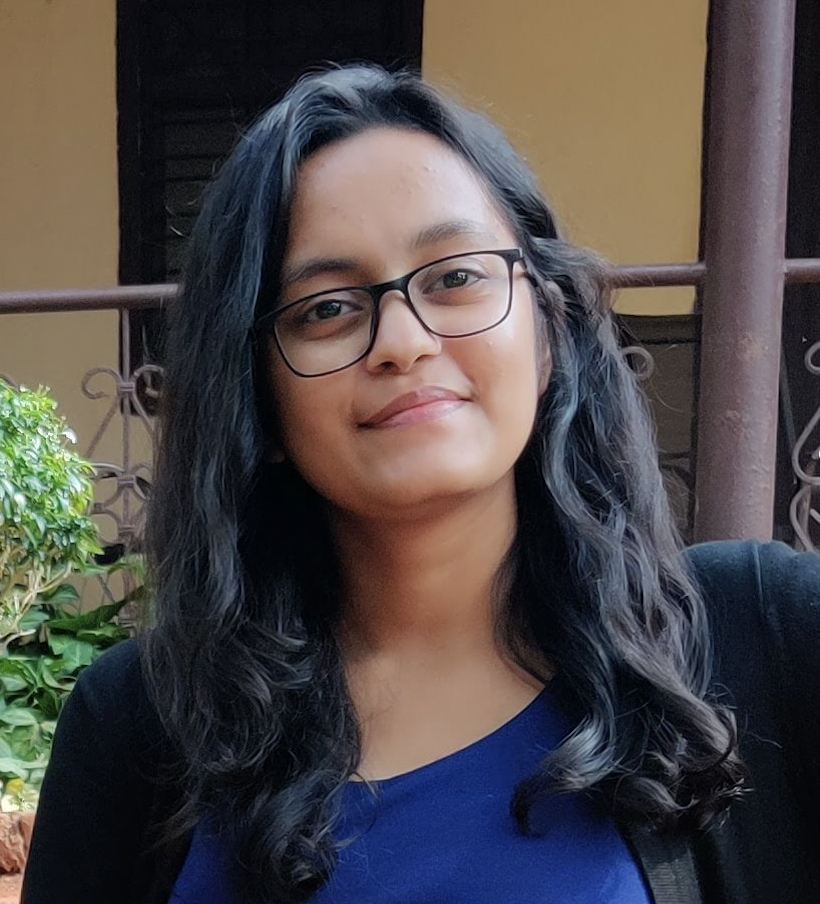
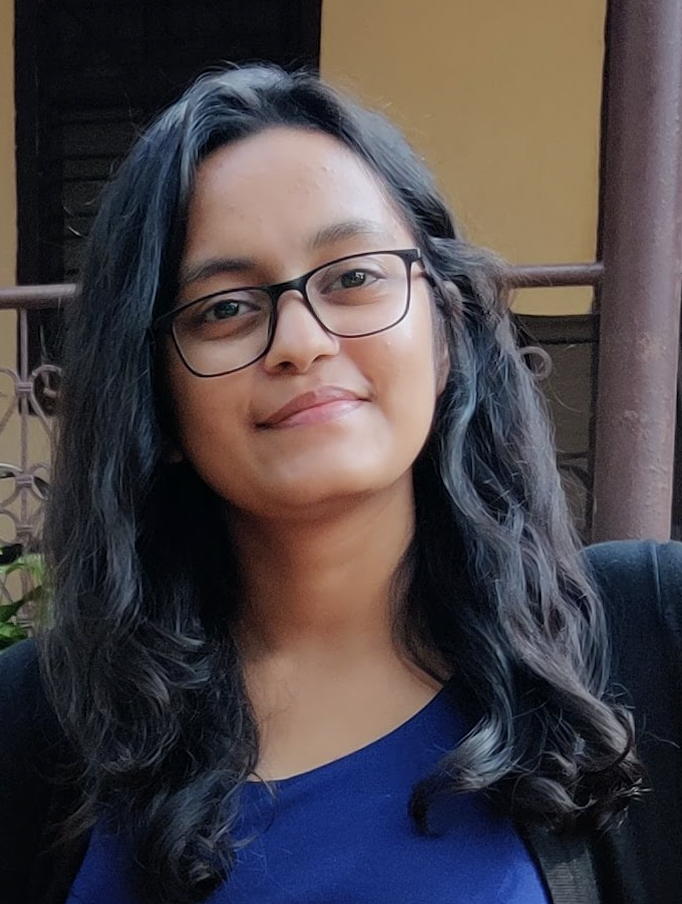
add new research and update students

diff --git a/index.html b/index.html
@@ -127,6 +127,65 @@
 <tr>
 <td valign="top" style="width: 100%; text-align: left;">
 <p>
+<a class="paper" href="https://nchen9191.github.io/tensegrity_mppi/">Model Predictive Control of Tensegrity Robots via Contact-Aware Graph Neural Dynamics Model</a>
+<br>
+Nelson Chen, Patrick Meng, Charles Tang, Angelina Degay, Zachary Brei, Rebecca Kramer-Bottiglio, Kostas Bekris and <font color="brown"><b>Mridul Aanjaneya</b></font> 
+<br>
+<i>IEEE/RSJ International Conference on Intelligent Robots and Systems,</i> (IROS proceedings), (2026)
+</p>
+</td>
+<td align="right" valign="top">
+<img src="images/thumbs/mppi_tensegrity.gif">
+</td>
+</tr>
+<tr>
+<td valign="top" style="width: 100%; text-align: left;">
+<p>
+<a class="paper"
+href="https://sites.google.com/view/tensegrity-navigation/home?authuser=0">An Open-Source, Reproducible Tensegrity Robot That Can Navigate Among Obstacles</a>
+<br>
+William R. Johnson III*, Patrick Meng*, Nelson Chen, Luca Cimatti, Augustin Vercoutere, <font color="brown"><b>Mridul Aanjaneya</b></font>, Rebecca Kramer-Bottiglio and Kostas Bekris (*Co-first authors)
+<br>
+<i>IEEE Robotics and Automation Letters,</i> 11, 6, 7054-7061, (2026)
+</p>
+</td>
+<td align="right" valign="top">
+<img src="images/thumbs/tensegrity_ral.png">
+</td>
+</tr>
+<tr>
+<td valign="top" style="width: 100%; text-align: left;">
+<p>
+<a class="paper"
+href="https://nchen9191.github.io/cablerobotgraphsim/">CableRobotGraphSim: A Graph Neural Network for Modeling Partially Observable Cable-Driven Robot Dynamics</a>
+<br>
+Nelson Chen, William R. Johnson III, Rebecca Kramer-Bottiglio, Kostas Bekris and <font color="brown"><b>Mridul Aanjaneya</b></font>
+<br>
+<i>Proceedings of Machine Learning Research,</i> (L4DC proceedings), (2026)
+</p>
+</td>
+<td align="right" valign="top">
+<img src="images/thumbs/crgs.png">
+</td>
+</tr>
+<tr>
+<td valign="top" style="width: 100%; text-align: left;">
+<p>
+<a class="paper"
+href="https://dl.acm.org/doi/full/10.1145/3807895.3807927">Weber: An Efficient and Interactive Framework for Crafting and Simulating Physics in the Web Browser</a>
+<br>
+Chengguizi Han, Alon Flor, Timothy Meehan and <font color="brown"><b>Mridul Aanjaneya</b></font>
+<br>
+<i>Companion Proceedings of the Symposium on Interactive 3D Graphics and Games,</i> (I3D Companion), (2026)
+</p>
+</td>
+<td align="right" valign="top">
+<img src="images/thumbs/weber.png">
+</td>
+</tr>
+<tr>
+<td valign="top" style="width: 100%; text-align: left;">
+<p>
 <a class="paper" href="papers/LDTDGNN/paper.html">Learning Differentiable Tensegrity Dynamics using Graph Neural Networks</a>
 <br>
 Nelson Chen, Kun Wang, William R. Johnson III, Rebecca Kramer-Bottiglio, Kostas Bekris and <font color="brown"><b>Mridul Aanjaneya</b></font>

diff --git a/research.html b/research.html
@@ -110,34 +110,6 @@ Computer Science
 </p>
 </td>
 <td align="left" valign="top">
-<img src="images/laurel.jpg" height="150">
-</td>
-<td valign="top">
-<p>
-<a class="paper">Chengguizi Han</a>
-<br>
-<br>
-<br>
-<b>PhD Student</b>
-<br>
-Computer Science
-</p>
-</td>
-<td align="left" valign="top">
-<img src="images/alon.JPG" height="150">
-</td>
-<td valign="top">
-<p>
-<a class="paper">Alon Flor</a>
-<br>
-<br>
-<br>
-<b>PhD Student</b>
-<br>
-Computer Science
-</p>
-</td>
-<td align="left" valign="top">
 <img src="images/nelson.jpg" height="150">
 </td>
 <td valign="top">
@@ -149,6 +121,20 @@ Computer Science
 <b>PhD Student</b>
 <br>
 (co-advised with <a href="https://www.cs.rutgers.edu/people/professors/details/kostas-bekris">Prof. Kostas Bekris</a>)
+<br>
+Computer Science
+</p>
+</td>
+<td align="left" valign="top">
+<img src="images/chen.jpg" height="150">
+</td>
+<td valign="top">
+<p>
+<a class="paper">Chen Tang</a>
+<br>
+<br>
+<br>
+<b>PhD Student</b>
 <br>
 Computer Science
 </p>
@@ -187,7 +173,7 @@ Now faculty at Nanjing University of Science and Technology
 <br>
 <br>
 <br>
-<b>PhD Student</b>
+<b>PhD 2022</b>
 <br>
 (co-advised with <a href="https://www.cs.rutgers.edu/people/professors/details/kostas-bekris">Prof. Kostas Bekris</a>)
 <br>
@@ -203,9 +189,25 @@ Now at Amazon Robotics
 <br>
 <br>
 <br>
-<b>MS Student</b>
+<b>MS 2023</b>
+<br>
+Computer Science
 <br>
 Now at Apple
+</p>
+</td>
+<td align="left" valign="top">
+<img src="images/alon.JPG" height="150">
+</td>
+<td valign="top">
+<p>
+<a class="paper">Dr. Alon Flor</a>
+<br>
+<br>
+<br>
+<b>PhD 2026</b>
+<br>
+Computer Science
 </p>
 </td>
 </tr>
@@ -219,7 +221,7 @@ Now at Apple
 <br>
 <br>
 <br>
-<b>PhD Student</b>
+<b>PhD 2023</b>
 <br>
 Now at Tencent America
 </p>
@@ -233,11 +235,27 @@ Now at Tencent America
 <br>
 <br>
 <br>
-<b>PhD Student</b>
+<b>PhD 2023</b>
 <br>
 (co-advised with <a href="http://combra.cs.rutgers.edu/">Prof. Konstantinos Michmizos</a>)
 <br>
 Now at Accenture Research Labs
+</p>
+</td>
+<td align="left" valign="top">
+<img src="images/laurel.jpg" height="150">
+</td>
+<td valign="top">
+<p>
+<a class="paper">Dr. Chengguizi Han</a>
+<br>
+<br>
+<br>
+<b>PhD 2026</b>
+<br>
+Computer Science
+<br>
+Now at NVIDIA
 </p>
 </td>
 </tr>
